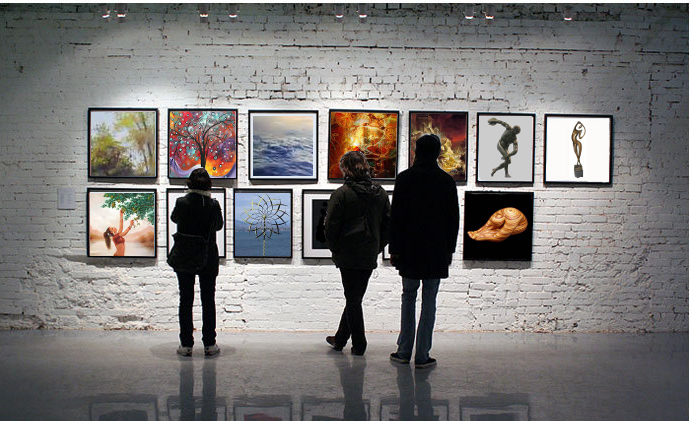
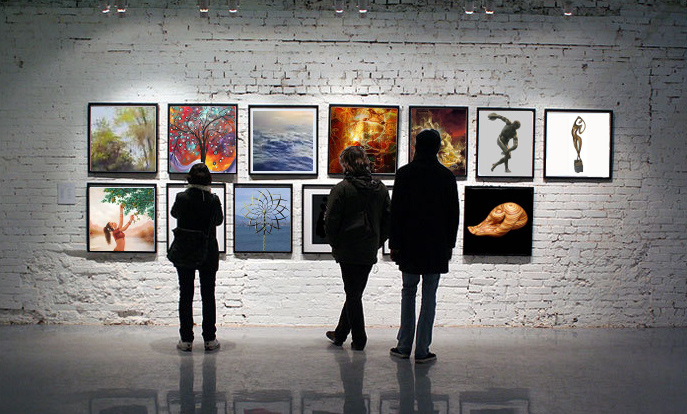
home page background changed to dark

Changed region(s): [[0.0, 0.0, 1.0, 1.0], [0.0917, 0.087, 0.1528, 0.1159], [0.2445, 0.9855, 0.2751, 1.0]]

diff --git a/app/assets/stylesheets/welcome.css.scss b/app/assets/stylesheets/welcome.css.scss
@@ -2,6 +2,16 @@
 // They will automatically be included in application.css.
 // You can use Sass (SCSS) here: http://sass-lang.com/
 
+@import "artsale";
+
 .content {
     display: hidden;
+}
+
+.welcome .hero-unit {
+	background-color: $artsale-bg;
+}
+
+#homeimage {
+	border: thin solid #999;
 }
